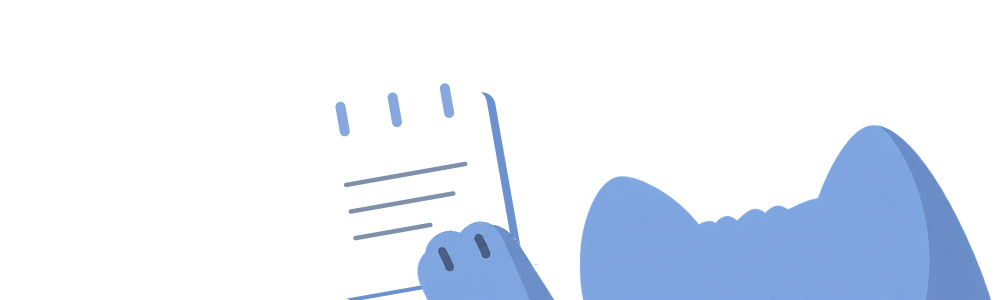
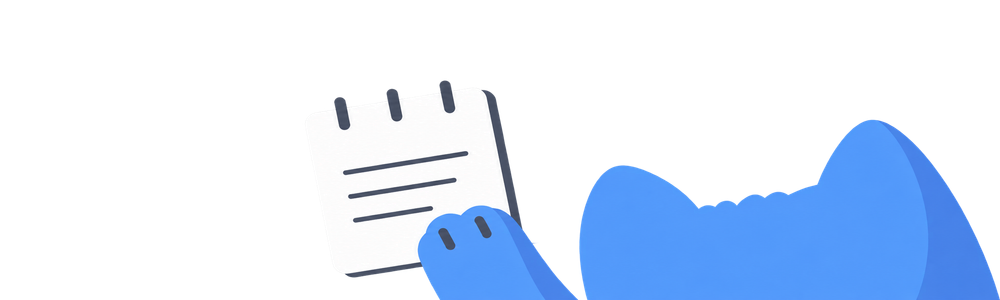
style(theme): keep cat artwork colors consistent

Changed region(s): [[0.341, 0.27, 1.0, 1.0], [0.31, 0.3, 0.403, 0.45]]

diff --git a/next/src/style/theme.css b/next/src/style/theme.css
@@ -28,31 +28,6 @@
   font-family: var(--app-font-family);
 }
 
-.theme-filtered-img {
-  filter: grayscale(0) sepia(0) hue-rotate(0deg) saturate(1) brightness(1) contrast(1);
-}
-
-html[data-theme-accent="green"] .theme-filtered-img {
-  filter: grayscale(0) sepia(0.8) hue-rotate(110deg) saturate(1.2) brightness(0.95) contrast(1.02);
-}
-
-html[data-theme-accent="pink"] .theme-filtered-img {
-  filter: grayscale(0) sepia(0.95) hue-rotate(-60deg) saturate(1.12) brightness(0.88) contrast(1.1);
-}
-
-html[data-theme-accent="purple"] .theme-filtered-img {
-  filter: grayscale(0) sepia(0.81) hue-rotate(-168deg) saturate(1.60) brightness(0.87) contrast(1.07);
-}
-
-html[data-theme-accent="yellow"] .theme-filtered-img {
-  filter: grayscale(0) sepia(0.9) hue-rotate(2deg) saturate(2.2) brightness(1) contrast(1.06);
-}
-
-html[data-theme-accent="grey"] .theme-filtered-img {
-  filter: grayscale(1) sepia(0) hue-rotate(0deg) saturate(1) brightness(0.87) contrast(1);
-}
-
-
 html[data-theme-accent='blue'] {
   --theme-accent: 140 173 226;
   --theme-accent-light: 240 247 255;

diff --git a/next/src/common/constants/TopSectionCat.ts b/next/src/common/constants/TopSectionCat.ts
@@ -1,3 +1,3 @@
-export const TopSectionCatClass = "theme-filtered-img ml-auto mr-4 mt-auto block w-3/4 transition-[filter] duration-1000 tablet:w-1/3 desktop:w-1/3";
+export const TopSectionCatClass = "ml-auto mr-4 mt-auto block w-3/4 tablet:w-1/3 desktop:w-1/3";
 export const TopSectionIconCatClass = "mt-6 tablet:mt-0 ml-auto block w-2/5 tablet:w-1/4 desktop:w-1/5";
 export const TopSectionCatSize = "(min-width: 1024px) 40vw, (min-width: 480px) calc(50vw - 36px), 68vw";

diff --git a/next/src/common/components/ui/BottomSafe.tsx b/next/src/common/components/ui/BottomSafe.tsx
@@ -6,7 +6,7 @@ import hidingCatTail from '/public/img/hiding-cat/hiding-cat-tail-no-pawprints.p
 const CONTAINER_CLASS =
   'w-[180px] self-center mt-16 desktop:mt-24 mb-24 flex flex-col';
 const TAIL_IMAGE_CLASS =
-  'theme-filtered-img -mb-1 h-auto w-full';
+  '-mb-1 h-auto w-full';
 const BOX_CLASS =
   'relative h-24 w-full rotate-[-1deg] bg-theme-text-tertiary shadow-md [clip-path:polygon(4%_3%,95%_0%,100%_82%,93%_100%,8%_95%,0%_14%)]';
 const BOX_TOP_FOLD_CLASS =
